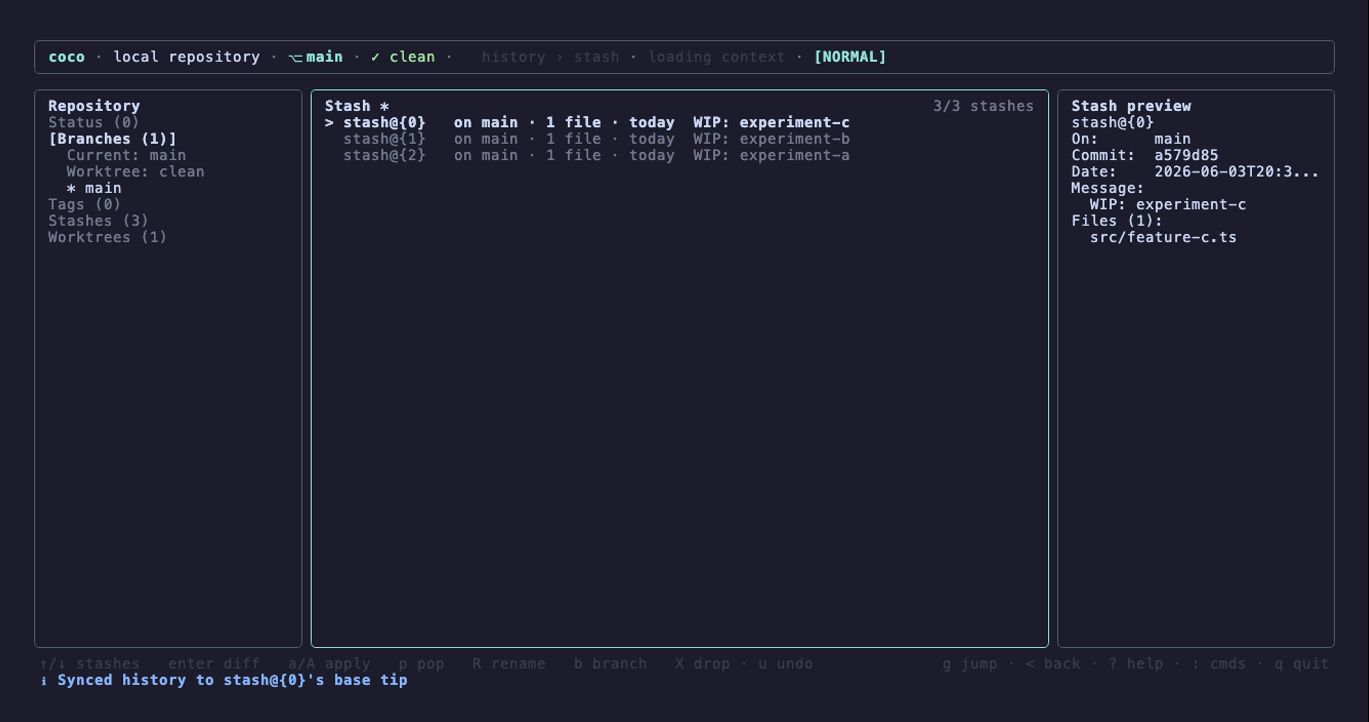
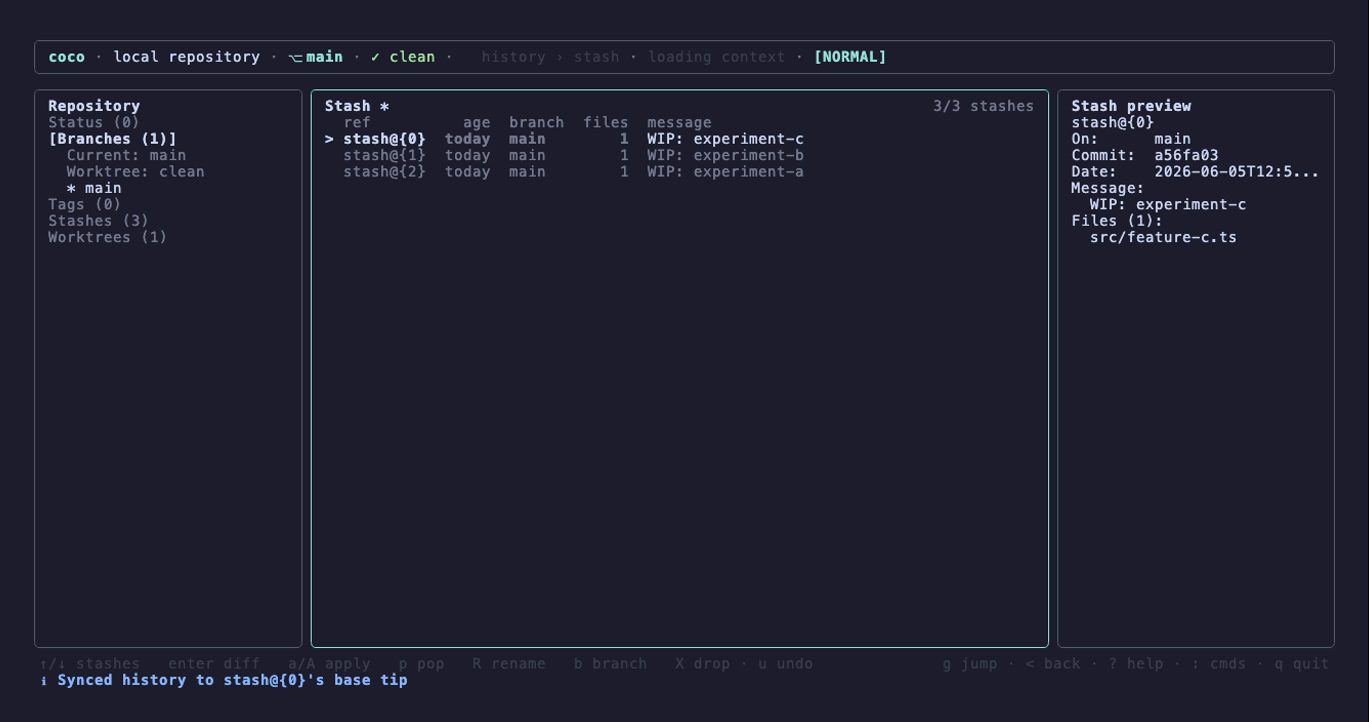
chore: refresh stash-view screenshots for the aligned-table layout
Regenerate view-stash.png and demo-stash-workflow.gif from the updated
VHS recipes (stash list is now an aligned table: ref · age · branch ·
files · message), and update the stash workflow blurb wording.

Changed region(s): [[0.2454, 0.1524, 0.6136, 0.2438], [0.859, 0.1828, 0.8897, 0.2438], [0.9204, 0.2133, 0.9511, 0.2438]]

diff --git a/src/app/workstation/page.tsx b/src/app/workstation/page.tsx
@@ -150,7 +150,7 @@ export default function WorkstationPage() {
       "16 specialized TUI views",
       "Chord-based keyboard navigation",
       "Tactile hunk-level staging",
-      "Stash workflow — rich rows, stash-from-anywhere (gZ), rename, branch, undo-drop, apply-index, quick WIP",
+      "Stash workflow — aligned table, stash-from-anywhere (gZ), rename, branch, undo-drop, apply-index, quick WIP",
       "Single-pane fallback for narrow terminals (<100 cols) with momentary sidebar peek",
       "AI-powered commit drafting",
       "One-keystroke PR creation seeded from AI changelog",